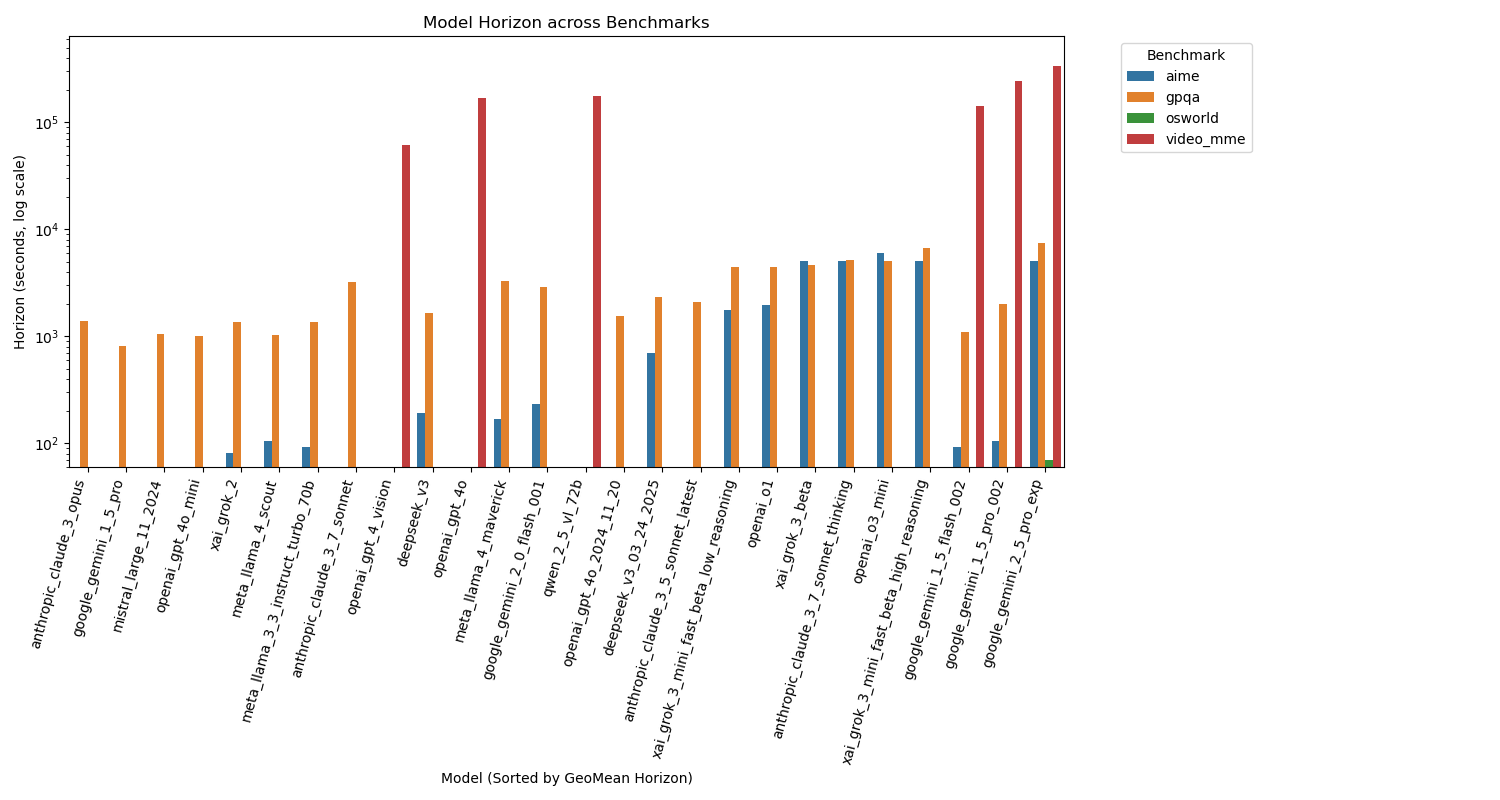
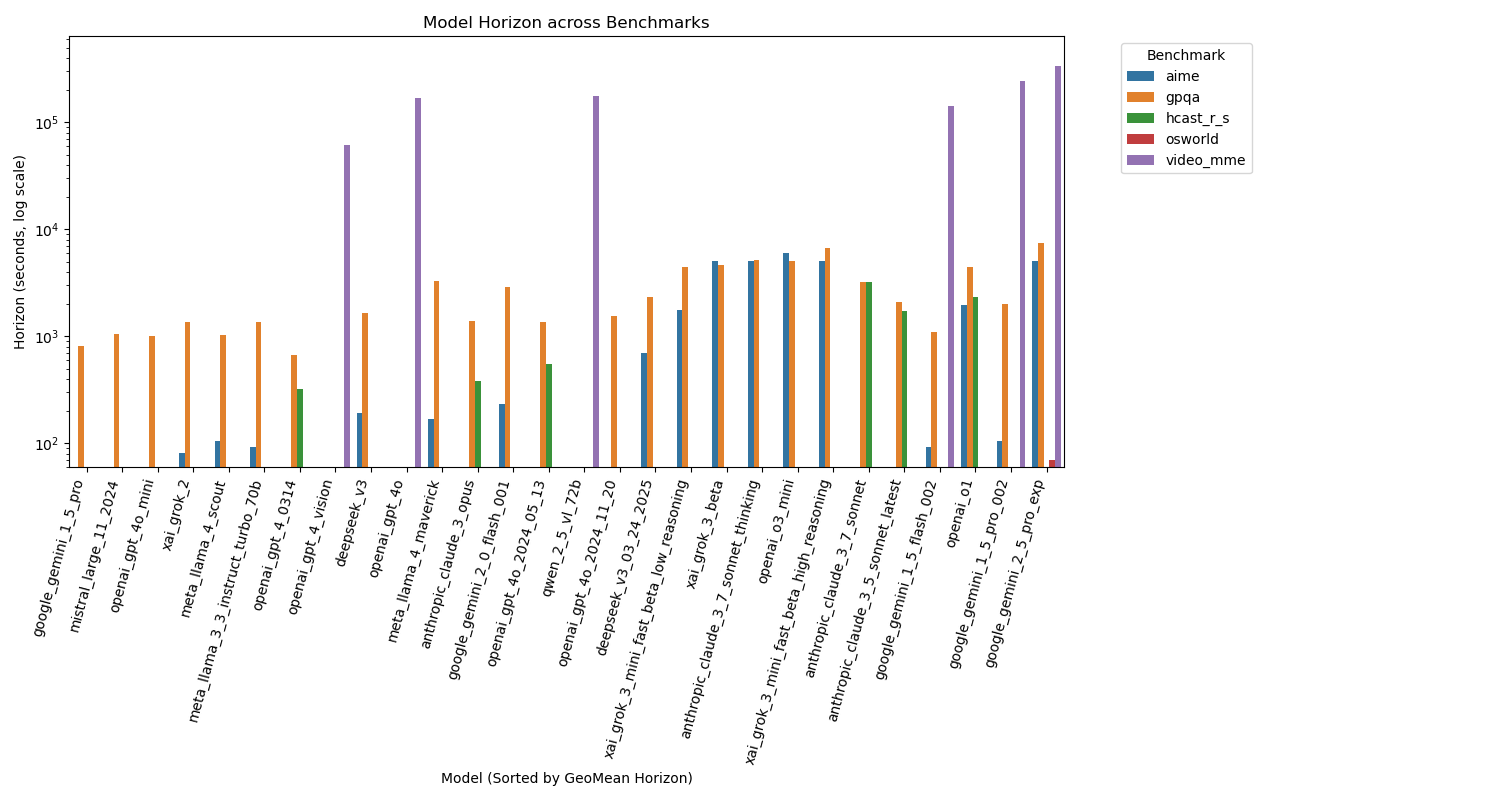
hcast data

Changed region(s): [[0.0, 0.0938, 0.7053, 0.9375], [0.736, 0.125, 0.828, 0.2188]]

diff --git a/README.md b/README.md
@@ -11,30 +11,8 @@ Estimate the time horizon of AIs over time on various domains like knowledge and
 
 ### Usage
 
-* Run benchmark-specific .py files to load scores for each dataset. Some also calculate horizons.
+* Run benchmark-specific `.py` files to load scores for each dataset. Some also calculate horizons.
 
-* Run calculate_horizons.py to estimate time horizons for each dataset
+* Run `calculate_horizons.py` to estimate time horizons for each dataset
 
-* Run plots.py to make all plots
-
-### TODO
-
-P0-- blocking internal review
-- [x] Change critical disengagement to disengagement
-- [x] OSWorld updated data
-- [ ] compare HCAST estimated horizon to actual horizon
-- plot includes saturation points (90th %ile task)
-
-P1-- blocking publication
-- [ ] aggregating benchmarks into categories
-- [ ] second visual understanding benchmark: UCF101
-- [ ] easier math benchmark like amc8?
-
-P2-- nice to have
-
-P3-- low priority
-- [ ] TheAgentCompany? but no human baselines
-- [ ] upgrade to use quantiles rather than individual lengths
-
-plan for Video-MME:
-- 
+* Run `plots.py` to make all plots
